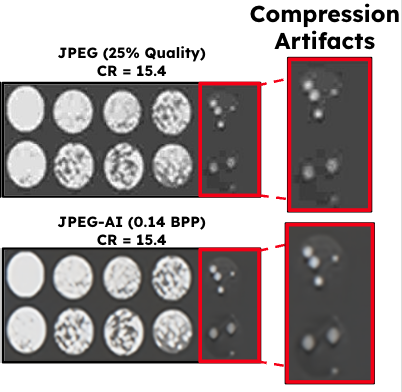
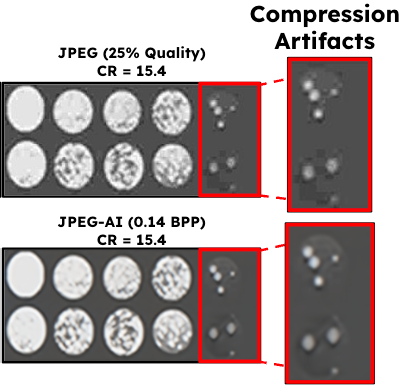
Added IH&MMSec paper.

diff --git a/publication/2025_ihmmsec/index.html b/publication/2025_ihmmsec/index.html
@@ -1034,9 +1034,9 @@
 </div>
 
 
-<div class="article-header article-container featured-image-wrapper mt-4 mb-4" style="max-width: 402px; max-height: 392px;">
+<div class="article-header article-container featured-image-wrapper mt-4 mb-4" style="max-width: 401px; max-height: 392px;">
   <div style="position: relative">
-    <img src="/publication/2025_ihmmsec/featured_hu6a86c00d00fc0cfd738d3124ba232341_120216_720x2500_fit_q90_h2_lanczos_3.webp" width="402" height="392" alt="" class="featured-image">
+    <img src="/publication/2025_ihmmsec/featured_huf11f08fa57237283b071646be9c7c540_101204_720x2500_fit_q90_h2_lanczos_3.webp" width="401" height="392" alt="" class="featured-image">
     
   </div>
 </div>

diff --git a/index.html b/index.html
@@ -1455,7 +1455,7 @@ opportunity to contribute to Loyola&rsquo;s mission. Many thanks to my colleague
     
     
     <a href="/publication/2025_ihmmsec/" >
-      <img src="/publication/2025_ihmmsec/featured_hu6a86c00d00fc0cfd738d3124ba232341_120216_150x0_resize_q90_h2_lanczos_3.webp" height="146" width="150"
+      <img src="/publication/2025_ihmmsec/featured_huf11f08fa57237283b071646be9c7c540_101204_150x0_resize_q90_h2_lanczos_3.webp" height="147" width="150"
            alt="Implications of neural compression to scientific images" loading="lazy">
     </a>
     

diff --git a/project/sciint/index.html b/project/sciint/index.html
@@ -1378,7 +1378,7 @@ Moreover, we also investigate the detection of synthetically generated scientifi
     
     
     <a href="/publication/2025_ihmmsec/" >
-      <img src="/publication/2025_ihmmsec/featured_hu6a86c00d00fc0cfd738d3124ba232341_120216_150x0_resize_q90_h2_lanczos_3.webp" height="146" width="150"
+      <img src="/publication/2025_ihmmsec/featured_huf11f08fa57237283b071646be9c7c540_101204_150x0_resize_q90_h2_lanczos_3.webp" height="147" width="150"
            alt="Implications of neural compression to scientific images" loading="lazy">
     </a>
     

diff --git a/publication-type/1/index.html b/publication-type/1/index.html
@@ -982,7 +982,7 @@
     
     
     <a href="/publication/2025_ihmmsec/" >
-      <img src="/publication/2025_ihmmsec/featured_hu6a86c00d00fc0cfd738d3124ba232341_120216_150x0_resize_q90_h2_lanczos_3.webp" height="146" width="150"
+      <img src="/publication/2025_ihmmsec/featured_huf11f08fa57237283b071646be9c7c540_101204_150x0_resize_q90_h2_lanczos_3.webp" height="147" width="150"
            alt="Implications of neural compression to scientific images" loading="lazy">
     </a>
     

diff --git a/tag/media-forensics/index.html b/tag/media-forensics/index.html
@@ -982,7 +982,7 @@
     
     
     <a href="/publication/2025_ihmmsec/" >
-      <img src="/publication/2025_ihmmsec/featured_hu6a86c00d00fc0cfd738d3124ba232341_120216_150x0_resize_q90_h2_lanczos_3.webp" height="146" width="150"
+      <img src="/publication/2025_ihmmsec/featured_huf11f08fa57237283b071646be9c7c540_101204_150x0_resize_q90_h2_lanczos_3.webp" height="147" width="150"
            alt="Implications of neural compression to scientific images" loading="lazy">
     </a>
     

diff --git a/tag/neural-compression/index.html b/tag/neural-compression/index.html
@@ -982,7 +982,7 @@
     
     
     <a href="/publication/2025_ihmmsec/" >
-      <img src="/publication/2025_ihmmsec/featured_hu6a86c00d00fc0cfd738d3124ba232341_120216_150x0_resize_q90_h2_lanczos_3.webp" height="146" width="150"
+      <img src="/publication/2025_ihmmsec/featured_huf11f08fa57237283b071646be9c7c540_101204_150x0_resize_q90_h2_lanczos_3.webp" height="147" width="150"
            alt="Implications of neural compression to scientific images" loading="lazy">
     </a>
     

diff --git a/tag/scientific-integrity/index.html b/tag/scientific-integrity/index.html
@@ -982,7 +982,7 @@
     
     
     <a href="/publication/2025_ihmmsec/" >
-      <img src="/publication/2025_ihmmsec/featured_hu6a86c00d00fc0cfd738d3124ba232341_120216_150x0_resize_q90_h2_lanczos_3.webp" height="146" width="150"
+      <img src="/publication/2025_ihmmsec/featured_huf11f08fa57237283b071646be9c7c540_101204_150x0_resize_q90_h2_lanczos_3.webp" height="147" width="150"
            alt="Implications of neural compression to scientific images" loading="lazy">
     </a>
     
